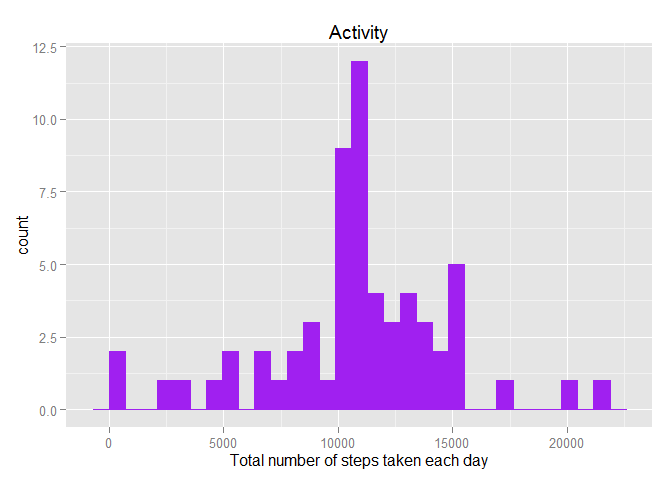
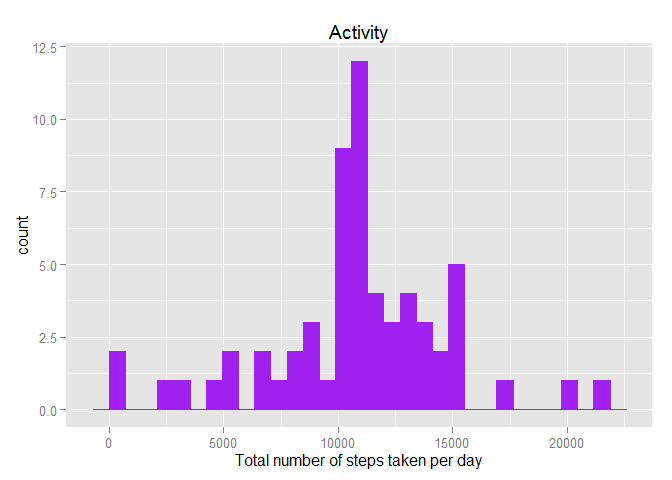
Updated file

Changed region(s): [[0.3438, 0.9375, 0.7188, 1.0]]

diff --git a/PA1_template.html b/PA1_template.html
@@ -129,11 +129,11 @@ ggplot(data = Avg_Steps,
 <blockquote>
 <p>Devise a strategy for filling in all of the missing values in the dataset. The strategy does not need to be sophisticated. For example, you could use the mean/median for that day, or the mean for that 5-minute interval, etc.</p>
 </blockquote>
-<pre class="r"><code>NA_missing &lt;- is.na(dt_activity$steps)
+<pre class="r"><code>NAs_Missing &lt;- is.na(dt_activity$steps)
 
 # No. of NAs missing
-table(NA_missing)</code></pre>
-<pre><code>## NA_missing
+table(NAs_Missing)</code></pre>
+<pre><code>## NAs_Missing
 ## FALSE  TRUE 
 ## 15264  2304</code></pre>
 <blockquote>
@@ -150,10 +150,10 @@ NA_Value &lt;- function(steps, interval) {
     return(fill_val)
 }
 
-dt_activity_filled &lt;- dt_activity
-dt_activity_filled$steps &lt;- mapply(NA_Value, dt_activity_filled$steps, dt_activity_filled$interval)
+dt_activity_Filled &lt;- dt_activity
+dt_activity_Filled$steps &lt;- mapply(NA_Value, dt_activity_Filled$steps, dt_activity_Filled$interval)
 
-head(dt_activity_filled, 50L)</code></pre>
+head(dt_activity_Filled, 50L)</code></pre>
 <pre><code>##         steps       date interval
 ##  1: 1.7169811 2012-10-01        0
 ##  2: 0.3396226 2012-10-01        5
@@ -209,17 +209,29 @@ head(dt_activity_filled, 50L)</code></pre>
 <blockquote>
 <p>Make a histogram of the total number of steps taken each day and Calculate and report the mean and median total number of steps taken per day.</p>
 </blockquote>
-<pre class="r"><code>Tot_Steps &lt;- tapply(dt_activity_filled$steps, dt_activity_filled$date, FUN = sum)
+<pre class="r"><code>#Tot_Steps &lt;- tapply(dt_activity_filled$steps, #dt_activity_filled$date, FUN = sum)
 
-qplot(Tot_Steps, binwidth = 1,
-      xlab = 'Total number of steps taken each day',
+#qplot(Tot_Steps, binwidth = 1,
+#      xlab = 'Total number of steps taken each day',
+#      main = 'Activity') +
+#      geom_histogram(colour = 'Purple', fill = 'Purple')
+
+#mean(Tot_Steps)
+#median(Tot_Steps)
+
+Tot_Steps &lt;- aggregate(dt_activity_Filled$steps, list(dt_activity_Filled$date), FUN = sum)
+
+names(Tot_Steps) &lt;- c('Date', 'Steps')
+
+qplot(Tot_Steps$Steps, binwidth = 1,
+      xlab = 'Total number of steps taken per day',
       main = 'Activity') +
       geom_histogram(colour = 'Purple', fill = 'Purple')</code></pre>
 <pre><code>## stat_bin: binwidth defaulted to range/30. Use 'binwidth = x' to adjust this.</code></pre>
[1 lines of base64/hex data omitted]
-<pre class="r"><code>mean(Tot_Steps)</code></pre>
[1 lines of base64/hex data omitted]
+<pre class="r"><code>mean(Tot_Steps$Steps)</code></pre>
 <pre><code>## [1] 10766.19</code></pre>
-<pre class="r"><code>median(Tot_Steps)</code></pre>
+<pre class="r"><code>median(Tot_Steps$Steps)</code></pre>
 <pre><code>## [1] 10766.19</code></pre>
 <p>The <strong>Mean</strong> number of steps per day is <strong>10766.19</strong>.</p>
 <p>The <strong>Median</strong> number of steps per day is <strong>10766.19</strong>.</p>
@@ -241,12 +253,12 @@ qplot(Tot_Steps, binwidth = 1,
        stop('invalid date')
 }
 
-dt_activity_filled$date &lt;- as.Date(dt_activity_filled$date)
-dt_activity_filled$day &lt;- sapply(dt_activity_filled$date, FUN = WkDayWkEnd)</code></pre>
+dt_activity_Filled$date &lt;- as.Date(dt_activity_Filled$date)
+dt_activity_Filled$day &lt;- sapply(dt_activity_Filled$date, FUN = WkDayWkEnd)</code></pre>
 <blockquote>
 <p>Make a panel plot containing a time series plot (i.e. type = ‘l’) of the 5-minute interval (x-axis) and the average number of steps taken, averaged across all weekday days or weekend days (y-axis). See the README file in the GitHub repository to see an example of what this plot should look like using simulated data.</p>
 </blockquote>
-<pre class="r"><code>Avg_Steps &lt;- aggregate(steps ~ interval + day, data = dt_activity_filled, mean)
+<pre class="r"><code>Avg_Steps &lt;- aggregate(steps ~ interval + day, data = dt_activity_Filled, mean)
 
 ggplot(Avg_Steps,
        aes(x = interval, y = steps)) +

diff --git a/PA1_template.md b/PA1_template.md
@@ -111,14 +111,14 @@ The maximum average number of steps is **206.1698**.
 
 
 ```r
-NA_missing <- is.na(dt_activity$steps)
+NAs_Missing <- is.na(dt_activity$steps)
 
 # No. of NAs missing
-table(NA_missing)
+table(NAs_Missing)
 ```
 
 ```
-## NA_missing
+## NAs_Missing
 ## FALSE  TRUE 
 ## 15264  2304
 ```
@@ -138,10 +138,10 @@ NA_Value <- function(steps, interval) {
     return(fill_val)
 }
 
-dt_activity_filled <- dt_activity
-dt_activity_filled$steps <- mapply(NA_Value, dt_activity_filled$steps, dt_activity_filled$interval)
+dt_activity_Filled <- dt_activity
+dt_activity_Filled$steps <- mapply(NA_Value, dt_activity_Filled$steps, dt_activity_Filled$interval)
 
-head(dt_activity_filled, 50L)
+head(dt_activity_Filled, 50L)
 ```
 
 ```
@@ -203,10 +203,22 @@ head(dt_activity_filled, 50L)
 
 
 ```r
-Tot_Steps <- tapply(dt_activity_filled$steps, dt_activity_filled$date, FUN = sum)
+#Tot_Steps <- tapply(dt_activity_filled$steps, #dt_activity_filled$date, FUN = sum)
 
-qplot(Tot_Steps, binwidth = 1,
-      xlab = 'Total number of steps taken each day',
+#qplot(Tot_Steps, binwidth = 1,
+#      xlab = 'Total number of steps taken each day',
+#      main = 'Activity') +
+#      geom_histogram(colour = 'Purple', fill = 'Purple')
+
+#mean(Tot_Steps)
+#median(Tot_Steps)
+
+Tot_Steps <- aggregate(dt_activity_Filled$steps, list(dt_activity_Filled$date), FUN = sum)
+
+names(Tot_Steps) <- c('Date', 'Steps')
+
+qplot(Tot_Steps$Steps, binwidth = 1,
+      xlab = 'Total number of steps taken per day',
       main = 'Activity') +
       geom_histogram(colour = 'Purple', fill = 'Purple')
 ```
@@ -218,7 +230,7 @@ qplot(Tot_Steps, binwidth = 1,
 ![](PA1_template_files/figure-html/Part7-1.png) 
 
 ```r
-mean(Tot_Steps)
+mean(Tot_Steps$Steps)
 ```
 
 ```
@@ -226,7 +238,7 @@ mean(Tot_Steps)
 ```
 
 ```r
-median(Tot_Steps)
+median(Tot_Steps$Steps)
 ```
 
 ```
@@ -256,15 +268,15 @@ WkDayWkEnd <- function(date) {
        stop('invalid date')
 }
 
-dt_activity_filled$date <- as.Date(dt_activity_filled$date)
-dt_activity_filled$day <- sapply(dt_activity_filled$date, FUN = WkDayWkEnd)
+dt_activity_Filled$date <- as.Date(dt_activity_Filled$date)
+dt_activity_Filled$day <- sapply(dt_activity_Filled$date, FUN = WkDayWkEnd)
 ```
 
 > Make a panel plot containing a time series plot (i.e. type = 'l') of the 5-minute interval (x-axis) and the average number of steps taken, averaged across all weekday days or weekend days (y-axis). See the README file in the GitHub repository to see an example of what this plot should look like using simulated data.
 
 
 ```r
-Avg_Steps <- aggregate(steps ~ interval + day, data = dt_activity_filled, mean)
+Avg_Steps <- aggregate(steps ~ interval + day, data = dt_activity_Filled, mean)
 
 ggplot(Avg_Steps,
        aes(x = interval, y = steps)) +
